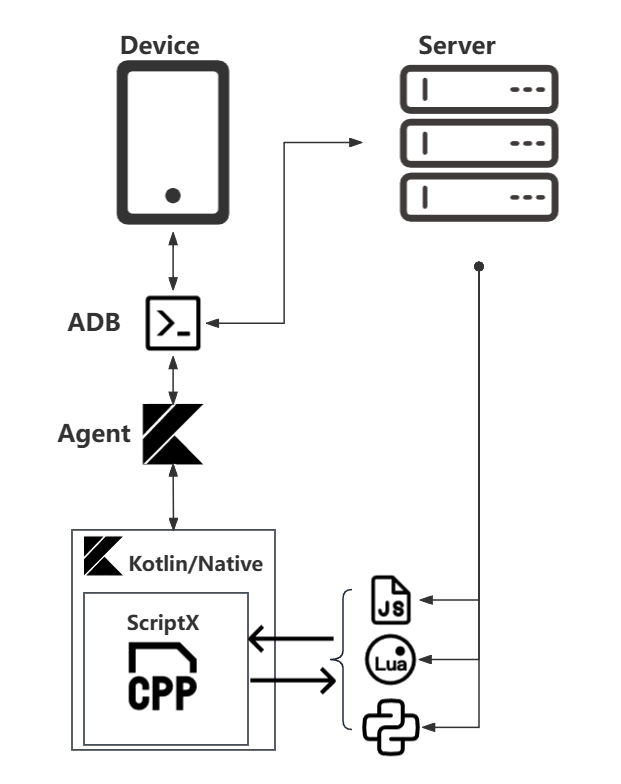
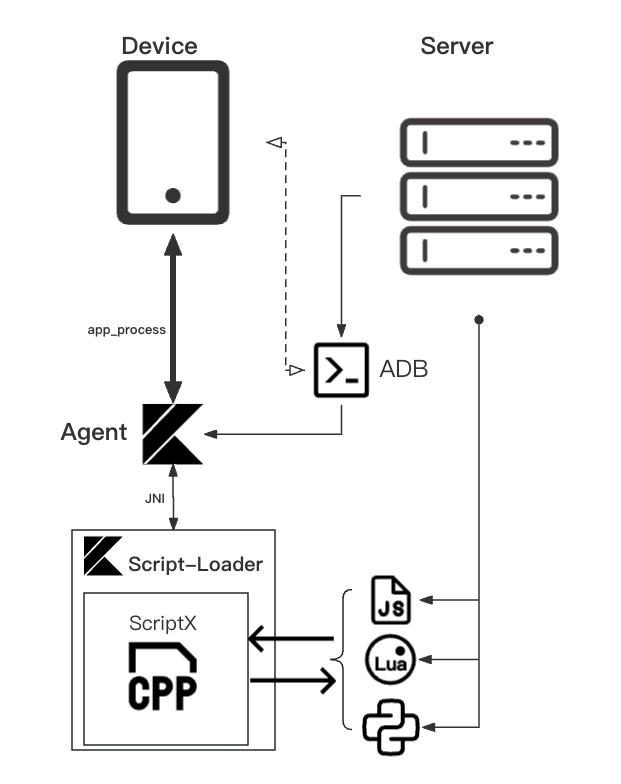
feat: add JNI support

diff --git a/agent/src/main/java/com/dazecake/autodroidx/loader/JNI.kt b/agent/src/main/java/com/dazecake/autodroidx/loader/JNI.kt
@@ -1,0 +1,31 @@
+package com.dazecake.autodroidx.loader
+
+import android.annotation.SuppressLint
+import android.os.Build
+import com.dazecake.autodroidx.utils.Log
+
+class JNI {
+
+    external fun stringFromJNI(): String
+
+    @SuppressLint("UnsafeDynamicallyLoadedCode")
+    companion object {
+        init {
+            // dirty hack
+            // app_process is not able to load libraries from the apk because it can't set the LD_LIBRARY_PATH
+            // try to get lib absolute path from CLASSPATH and load it absolute
+            // and useLegacyPackaging should be set to false in the build.gradle.kts
+            val libPath = (System.getenv("CLASSPATH")?.plus("!/lib/")
+                ?: "/data/local/tmp/autodroidx-agent.jar!/lib/".also {
+                    Log.i("CLASSPATH not found, using default path")
+                }) + Build.SUPPORTED_ABIS[0] +
+                    "/libScriptLoader.so"
+
+            try {
+                System.load(libPath)
+            } catch (e: Throwable) {
+                Log.e("Failed to load library:\n\t" + e.message)
+            }
+        }
+    }
+}

diff --git a/agent/src/main/java/com/dazecake/autodroidx/Main.kt b/agent/src/main/java/com/dazecake/autodroidx/Main.kt
@@ -1,6 +1,7 @@
 package com.dazecake.autodroidx
 
 import android.os.Build
+import com.dazecake.autodroidx.loader.JNI
 import com.dazecake.autodroidx.utils.Log
 import com.dazecake.autodroidx.utils.Options
 import kotlin.system.exitProcess
@@ -38,6 +39,8 @@ object Main {
         Log.setLevel(options.logLevel)
 
         Log.i("Device: [" + Build.MANUFACTURER + "] " + Build.BRAND + " " + Build.MODEL + " (Android " + Build.VERSION.RELEASE + ")")
+
+        Log.i(JNI().stringFromJNI())
     }
 }
 

diff --git a/agent/src/main/cpp/ScriptLoader.cpp b/agent/src/main/cpp/ScriptLoader.cpp
@@ -1,0 +1,13 @@
+#include <jni.h>
+#include <string>
+
+//
+// Created by DazeCake on 2024/3/21.
+//
+
+extern "C"
+JNIEXPORT jstring JNICALL
+Java_com_dazecake_autodroidx_loader_JNI_stringFromJNI(JNIEnv *env, jobject thiz) {
+    std::string hello = "Hello from C++";
+    return env->NewStringUTF(hello.c_str());
+}

diff --git a/README.md b/README.md
@@ -25,3 +25,7 @@ The core of adx, all operations are ultimately sent to the agent and are finally
 ### 🗒 server
 
 Start and manage agent. Also instance Management Center allows you to centrally manage multiple Android device. 
+
+### 🗒 script-loader
+
+Cpp compatibility layer that supports multiple script loading. Powered by [ScriptX](https://github.com/Tencent/ScriptX)
